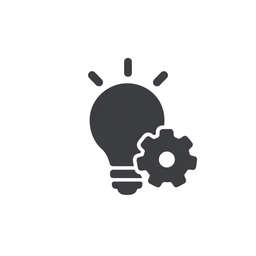
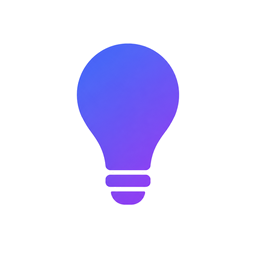
Redesign the tab bar and sign-up step header to v4
Labels move to Plex Regular in text/body for every state, and each tab keeps
its own icon box, since v4 sizes each bitmap separately. The bar keeps even
columns padded 5.5/7.5 so every icon centre lands within 0.4pt of v4's
31.5/83/135/187. Only 개선책's active icon changed artwork.

StepHeader takes its values from 회원가입/1, the one step whose header was
rescaled with the rest of v4; its progress fill is the pastel ramp.

Changed region(s): [[0.2812, 0.1562, 0.7812, 0.8125]]

diff --git a/src/components/ui/bottom-bar.tsx b/src/components/ui/bottom-bar.tsx
@@ -11,55 +11,62 @@ import {
 } from 'react-native';
 import { useSafeAreaInsets } from 'react-native-safe-area-context';
 
+import { COLOR } from '@/lib/design';
 import { scale } from '@/lib/scale';
 
 /**
- * Figma: `BottomBar0`–`BottomBar4` (`457:820`) — the app's tab bar. The five
- * nodes are the same bar with a different tab active; only the **icon**
- * changes, the label stays `#B4B2A8` throughout.
+ * Figma v4: the tab bar drawn at the foot of every tab frame (`BottomBar2`,
+ * `BottomBar3`, `Component 2`, and an unnamed copy on 홈). Ten of the eleven
+ * are the same 220×39.42 white bar; 홈's is the un-rescaled 41-tall original.
+ * Only the **icon** changes with the active tab — the label is Plex Regular
+ * `text/body` in every state.
  *
- * Figma hand-places the four columns slightly off centre (31.5 / 83.5 / 135.5 /
- * 187.5 rather than even quarters). They are laid out evenly here — the intent
- * is plainly a four-up bar, and even columns also survive a change of device
- * width.
+ * Each icon has its own box per state, because the bitmaps pad their artwork
+ * differently (MY's active icon fills more of its canvas than the inactive one,
+ * so Figma draws it smaller). Sizes and tops are v4's, in Figma points.
+ *
+ * The four columns are even, inside Figma's inset: v4 centres the icons at
+ * 31.5 / 83 / 135 / 187, a ~52pt pitch that leaves 5.5 on the left and ~7 on
+ * the right, and the padding below lands every centre within 0.4pt of that.
  */
 export type BottomBarTabName = 'home' | 'journal' | 'plan' | 'my';
 
-const TABS: Record<
-  BottomBarTabName,
-  { label: string; size: number; top: number; off: number; on: number }
-> = {
+type TabIcon = { source: number; size: number; top: number };
+
+const TABS: Record<BottomBarTabName, { label: string; off: TabIcon; on: TabIcon }> = {
   home: {
     label: '홈',
-    size: 25,
-    top: 5,
-    off: require('@/assets/images/tabs/home-off.png'),
-    on: require('@/assets/images/tabs/home-on.png'),
+    off: { source: require('@/assets/images/tabs/home-off.png'), size: 24.04, top: 3.85 },
+    // Only 홈's un-rescaled bar lights 홈 (26 @ 4); this is that × 39.42/41.
+    on: { source: require('@/assets/images/tabs/home-on.png'), size: 25, top: 3.85 },
   },
   journal: {
     label: '오늘의 일지',
-    size: 28,
-    top: 3,
-    off: require('@/assets/images/tabs/journal-off.png'),
-    on: require('@/assets/images/tabs/journal-on.png'),
+    off: { source: require('@/assets/images/tabs/journal-off.png'), size: 26.92, top: 1.92 },
+    on: { source: require('@/assets/images/tabs/journal-on.png'), size: 28.85, top: 0.96 },
   },
   plan: {
     label: '개선책',
-    size: 26,
-    top: 4,
-    off: require('@/assets/images/tabs/plan-off.png'),
-    on: require('@/assets/images/tabs/plan-on.png'),
+    off: { source: require('@/assets/images/tabs/plan-off.png'), size: 25, top: 2.88 },
+    // v4 `image 1104` — the violet bulb. The dark bulb-and-gear it replaces
+    // (`image 1101`) is still stacked under the inactive icon in v4, unseen.
+    on: { source: require('@/assets/images/tabs/plan-on.png'), size: 25, top: 2.88 },
   },
   my: {
     label: 'MY',
-    size: 28,
-    top: 3,
-    off: require('@/assets/images/tabs/my-off.png'),
-    on: require('@/assets/images/tabs/my-on.png'),
+    off: { source: require('@/assets/images/tabs/my-off.png'), size: 26.92, top: 1.92 },
+    on: { source: require('@/assets/images/tabs/my-on.png'), size: 23.08, top: 3.85 },
   },
 };
 
-const BAR_HEIGHT = 41;
+const BAR_HEIGHT = 39.42;
+const PADDING_LEFT = 5.5;
+const PADDING_RIGHT = 7.5;
+/**
+ * Label line-box top. v4 draws 홈 / 오늘의 일지 / 개선책 at 25.05 and MY about
+ * 1pt lower at 26.01; the three win.
+ */
+const LABEL_TOP = 25.05;
 
 /**
  * The bar itself. Used as `<TabList asChild><BottomBar>…</BottomBar></TabList>`,
@@ -79,6 +86,8 @@ export const BottomBar = forwardRef<View, ViewProps>(function BottomBar({ style,
           backgroundColor: '#FFFFFF',
           height: scale(BAR_HEIGHT) + insets.bottom,
           paddingBottom: insets.bottom,
+          paddingLeft: scale(PADDING_LEFT),
+          paddingRight: scale(PADDING_RIGHT),
         },
         style,
       ]}
@@ -88,21 +97,21 @@ export const BottomBar = forwardRef<View, ViewProps>(function BottomBar({ style,
 
 type BottomBarButtonProps = Omit<PressableProps, 'style'> & {
   tab: BottomBarTabName;
-  /** Supplied by `TabTrigger`; absent on the tabs that have no screen yet. */
+  /** Supplied by `TabTrigger` from the route. */
   isFocused?: boolean;
   /** Narrowed from Pressable's union — its function form will not compose. */
   style?: StyleProp<ViewStyle>;
 };
 
 /**
- * One tab. Wrap it in a `TabTrigger asChild` to make it navigate; rendered bare
- * it is inert, which is how 개선책 and MY sit until those screens exist.
+ * One tab. Wrap it in a `TabTrigger asChild` to make it navigate.
  */
 export const BottomBarButton = forwardRef<View, BottomBarButtonProps>(function BottomBarButton(
   { tab, isFocused = false, style, ...props },
   ref,
 ) {
-  const { label, size, top, off, on } = TABS[tab];
+  const { label, off, on } = TABS[tab];
+  const icon = isFocused ? on : off;
 
   // The layout goes *after* the incoming style, which is the reverse of the
   // usual order: `TabTrigger` hands its child a hardcoded
@@ -117,20 +126,20 @@ export const BottomBarButton = forwardRef<View, BottomBarButtonProps>(function B
         { flex: 1, flexDirection: 'column', alignItems: 'center', justifyContent: 'flex-start' },
       ]}>
       <Image
-        source={isFocused ? on : off}
-        style={{ width: scale(size), height: scale(size), marginTop: scale(top) }}
+        source={icon.source}
+        style={{ width: scale(icon.size), height: scale(icon.size), marginTop: scale(icon.top) }}
         resizeMode="contain"
       />
       <Text
         numberOfLines={1}
         style={{
           position: 'absolute',
-          bottom: scale(4.5),
-          fontSize: scale(7),
-          lineHeight: scale(9),
-          color: '#B4B2A8',
+          top: scale(LABEL_TOP),
+          fontSize: scale(6.769),
+          lineHeight: scale(9.026),
+          color: COLOR.text.body,
         }}
-        className="font-pretendard">
+        className="font-plex">
         {label}
       </Text>
     </Pressable>

diff --git a/src/components/ui/step-header.tsx b/src/components/ui/step-header.tsx
@@ -2,25 +2,36 @@ import { LinearGradient } from 'expo-linear-gradient';
 import { type Href } from 'expo-router';
 import { Text, View } from 'react-native';
 
-import { GRADIENT_PROGRESS } from '@/lib/design';
+import { COLOR, GRADIENT_PASTEL, SHADOW_V4 } from '@/lib/design';
+import { cssGradientPoints } from '@/lib/gradient';
 import { scale } from '@/lib/scale';
 import { ButtonBack } from './button-back';
 
 /**
- * Figma draws the progress bar as one continuous gradient whose width covers
- * the steps completed so far, with the remaining segments left as thinner grey
- * bars. The three segments sit at 0–56, 60–118 and 121–179, and the fill runs
- * to 56 / 119 / 180 for steps 1–3.
+ * Figma v4 회원가입/1·2·3: back chip + title, a three-segment progress bar, and
+ * the "STEP n" label.
  *
- * The bar is **180pt wide, not the width of the content column** — the three
- * step screens are 184 or 186 wide, so expressing these as percentages of the
- * parent stretched the whole bar past Figma's right edge.
+ * The bar spans the 197.44 column. The filled part is one pastel ramp covering
+ * the steps done so far; the segments still to come are thinner `surface/track`
+ * bars centred on it. Every value is 회원가입/1's — the only frame whose header
+ * was rescaled with the rest of v4 (2 and 3 still carry the 5 / 3 / r3 / 4px
+ * shadow of the old 220 file, the same leftover as their 14×13 back chip).
+ *
+ * The ramp's CSS angle is measured in pixels, so it differs with the fill's
+ * width; each step keeps the angle v4 gives for that width.
  */
-const BAR_WIDTH = 180;
-const FILL_WIDTH = [56, 119, 180];
+const BAR_WIDTH = 197.44;
+const FILL_HEIGHT = 4.81;
+const TRACK_HEIGHT = 2.88;
+const RADIUS = 2.885;
+const STEPS = [
+  { fill: 61.77, angle: 172.13 },
+  { fill: 130.53, angle: 176.11 },
+  { fill: 197.44, angle: 177.43 },
+];
 const SEGMENTS = [
-  { left: 60, width: 58 },
-  { left: 121, width: 58 },
+  { left: 66.18, width: 63.97 },
+  { left: 133.46, width: 63.97 },
 ];
 
 type StepHeaderProps = {
@@ -37,51 +48,59 @@ type StepHeaderProps = {
 };
 
 export function StepHeader({ title, backHref, stepLabel, currentStep }: StepHeaderProps) {
-  const fill = FILL_WIDTH[currentStep - 1] ?? 0;
+  const step = STEPS[currentStep - 1];
+  const fill = step?.fill ?? 0;
+  const ramp = step ? cssGradientPoints(step.angle, step.fill, FILL_HEIGHT) : null;
 
   return (
     <View>
       {title ? (
-        <View style={{ height: scale(22), flexDirection: 'row', alignItems: 'center' }}>
+        <View style={{ flexDirection: 'row', alignItems: 'center' }}>
           <ButtonBack fallbackHref={backHref} />
           <Text
             style={{
-              fontSize: scale(12),
-              lineHeight: scale(15),
-              marginLeft: scale(9),
-              color: '#000000',
+              fontSize: scale(13.538),
+              lineHeight: scale(18.051),
+              letterSpacing: scale(-0.271),
+              marginLeft: scale(9.4),
+              color: COLOR.text.strong,
             }}
-            className="font-pretendard-extrabold">
+            className="font-plex-bold">
             {title}
           </Text>
         </View>
       ) : null}
 
-      <View style={{ width: scale(BAR_WIDTH), height: scale(5), marginTop: scale(5) }}>
-        <LinearGradient
-          colors={[...GRADIENT_PROGRESS]}
-          start={{ x: 0, y: 0.5 }}
-          end={{ x: 1, y: 0.5 }}
-          style={{
-            position: 'absolute',
-            left: 0,
-            top: 0,
-            height: scale(5),
-            width: scale(fill),
-            borderRadius: scale(3),
-          }}
-        />
+      <View style={{ width: scale(BAR_WIDTH), height: scale(FILL_HEIGHT), marginTop: scale(7.12) }}>
+        {ramp ? (
+          <LinearGradient
+            colors={[...GRADIENT_PASTEL.colors]}
+            locations={[...GRADIENT_PASTEL.locations]}
+            start={ramp.start}
+            end={ramp.end}
+            style={{
+              position: 'absolute',
+              left: 0,
+              top: 0,
+              height: scale(FILL_HEIGHT),
+              width: scale(fill),
+              borderRadius: scale(RADIUS),
+              boxShadow: SHADOW_V4,
+            }}
+          />
+        ) : null}
         {SEGMENTS.filter((segment) => segment.left >= fill).map((segment) => (
           <View
             key={segment.left}
             style={{
               position: 'absolute',
-              top: scale(1),
+              top: scale((FILL_HEIGHT - TRACK_HEIGHT) / 2),
               left: scale(segment.left),
               width: scale(segment.width),
-              height: scale(3),
-              borderRadius: scale(3),
-              backgroundColor: '#D3D1C6',
+              height: scale(TRACK_HEIGHT),
+              borderRadius: scale(RADIUS),
+              backgroundColor: COLOR.surface.track,
+              boxShadow: SHADOW_V4,
             }}
           />
         ))}
@@ -89,12 +108,12 @@ export function StepHeader({ title, backHref, stepLabel, currentStep }: StepHead
 
       <Text
         style={{
-          fontSize: scale(7),
-          lineHeight: scale(10),
-          marginTop: scale(5),
-          color: '#4B52F6',
+          fontSize: scale(7.333),
+          lineHeight: scale(10.154),
+          marginTop: scale(5.05),
+          color: COLOR.brand.violetText,
         }}
-        className="font-pretendard-extrabold">
+        className="font-plex-semibold">
         {stepLabel}
       </Text>
     </View>

diff --git a/src/lib/design.ts b/src/lib/design.ts
@@ -18,9 +18,6 @@ export const GRADIENT_SELECT_STOPS: readonly [number, number] = [0.18919, 1];
 /** The older, wider brand ramp — calendar cells, daily summary card, weekly chart. */
 export const GRADIENT_BRAND: readonly [string, string] = ['#4655F6', '#9423FF'];
 
-/** The filled part of a step progress bar. */
-export const GRADIENT_PROGRESS: readonly [string, string] = ['#4056F6', '#853EF6'];
-
 /** The slightly cooler ramp the 홈 score bars and weekly progress bars use. */
 export const GRADIENT_SCORE: readonly [string, string] = ['#3F56F6', '#8B3FF6'];
 

diff --git a/docs/figma-reference.md b/docs/figma-reference.md
@@ -137,7 +137,8 @@ instance**, so they carry their own width rather than filling the screen's
 column — on the 일지 screens that column is 184 and they would come out 2pt wide.
 The hand-built loose cards on 상세보기 really are 184 and do fill it.
 
-The step progress bar is **180pt wide**, not the content width — segments at
+*(Pre-v4 — in v4 the bar is the 197.44 column; see below.)* The step progress
+bar was **180pt wide**, not the content width — segments at
 0–56 / 60–118 / 121–179, fill to 56 / 119 / 180 for steps 1–3.
 
 The 약관 동의 screen **does** have a back button and a title (`약관 동의`,
@@ -285,6 +286,12 @@ is the read-only twin and is **not built yet**.
 
 ## BottomBar
 
+> **Pre-v4.** v4 draws the bar 220×39.42 with Plex Regular 6.77 `text/body`
+> labels, and lights 개선책 with a violet bulb (`image 1104`) instead of the dark
+> bulb-and-gear. Per-icon sizes are in `bottom-bar.tsx`, decisions in
+> [redesign-v4-inventory.md](redesign-v4-inventory.md); the numbers below
+> describe the older design.
+
 `457:820` — `BottomBar0`–`BottomBar4` (`496:1958`, `1960`, `1961`, `1959`,
 `1962`). The same 220×41 white bar five times; **only the icon changes**, the
 label stays Regular 7 `#B4B2A8` on a 9pt line box in every variant.
@@ -373,6 +380,11 @@ It gained a current-value badge: 35×10, radius 10, `#E9F0FF` background,
 Medium 5 `#4800FF`, sitting on the label row against the right edge.
 
 ### Step progress bar
+
+> **Pre-v4.** In v4 the fill is the pastel ramp (`GRADIENT_PASTEL`) over the
+> 197.44 column, segments at 0–61.77 / 66.18–130.15 / 133.46–197.43, tracks
+> `surface/track`; values and the frame-by-frame split are in
+> [redesign-v4-inventory.md](redesign-v4-inventory.md) and `step-header.tsx`.
 
 One continuous gradient whose width covers the completed steps, with the
 remaining segments drawn as thinner grey (`#D3D1C6`) bars. Against the 180pt bar
